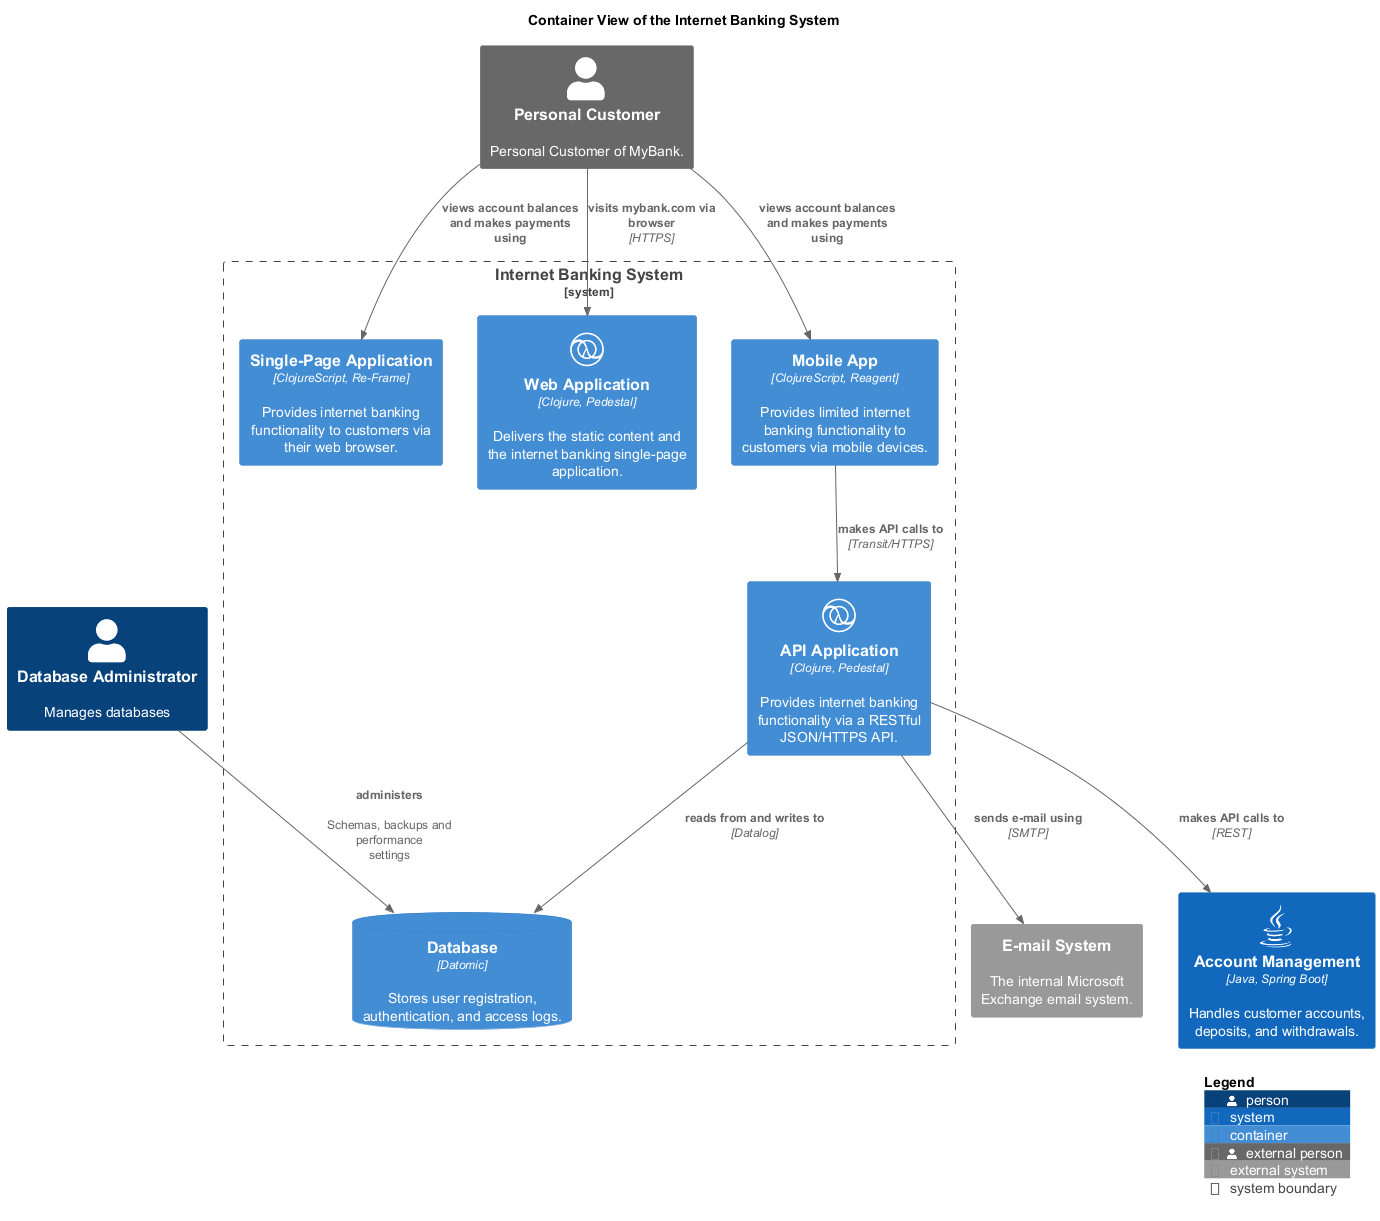
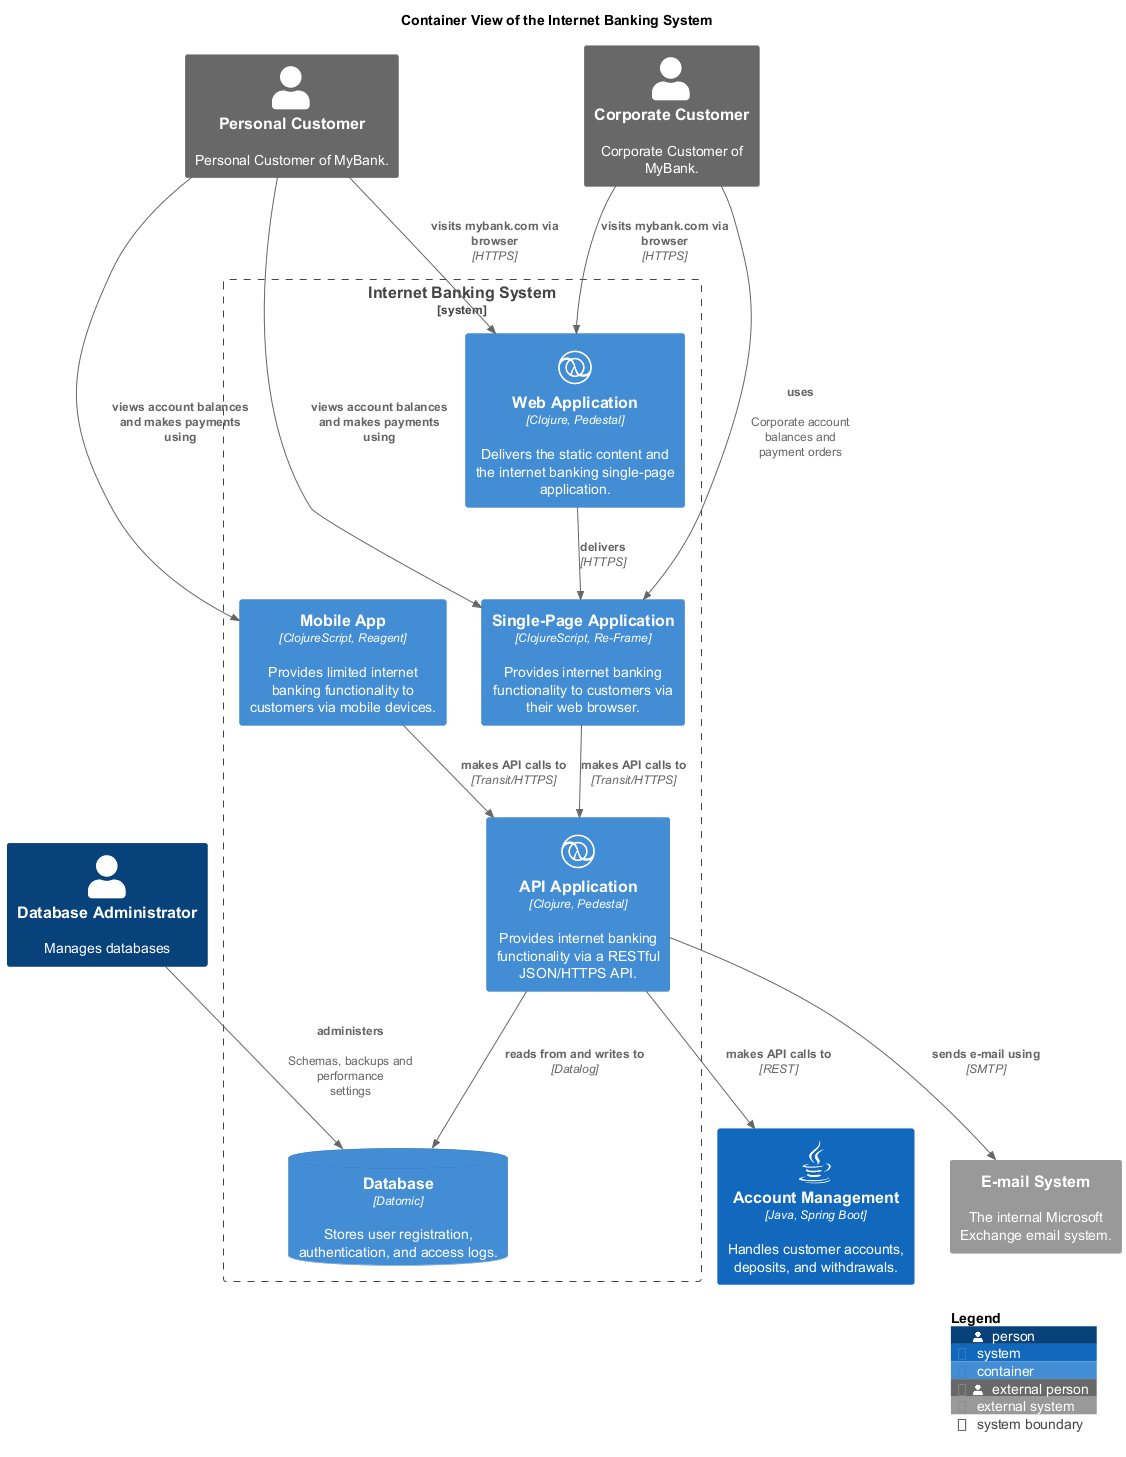
update model and generated docs

diff --git a/docs/mybank/model-view.md b/docs/mybank/model-view.md
@@ -263,6 +263,7 @@ Shows the complete model graph
 | [Single-Page Application](../mybank/digital-banking/internet-banking-system/single-page-app.md) | makes API calls to | [Accounts Summary Controller](../mybank/digital-banking/internet-banking-system/accounts-summary-controller.md) | Transit/HTTPS |  |
 | [Single-Page Application](../mybank/digital-banking/internet-banking-system/single-page-app.md) | makes API calls to | [Reset Password Controller](../mybank/digital-banking/internet-banking-system/reset-password-controller.md) | Transit/HTTPS |  |
 | [Single-Page Application](../mybank/digital-banking/internet-banking-system/single-page-app.md) | makes API calls to | [Sign In Controller](../mybank/digital-banking/internet-banking-system/sign-in-controller.md) | Transit/HTTPS |  |
+| [Single-Page Application](../mybank/digital-banking/internet-banking-system/single-page-app.md) | makes API calls to | [API Application](../mybank/digital-banking/internet-banking-system/api-application.md) | Transit/HTTPS |  |
 | [Mobile App](../mybank/digital-banking/internet-banking-system/mobile-app.md) | makes API calls to | [API Application](../mybank/digital-banking/internet-banking-system/api-application.md) | Transit/HTTPS |  |
 | [API Application](../mybank/digital-banking/internet-banking-system/api-application.md) | makes API calls to | [Account Management](../mybank/core-banking/account-management-system.md) | REST |  |
 | [Cybersecurity](../mybank/security/cybersecurity-system.md) | monitors | [API Gateway](../mybank/integration-middleware/api-gateway.md) |  | Network traffic and security events |
@@ -302,6 +303,7 @@ Shows the complete model graph
 | [Fraud specialist](../mybank/compliance/fraud-specialist.md) | uses | [Fraud Detection System](../mybank/compliance/fraud-detection-system.md) |  | generate fraud reports |
 | [DevOps Engineer](../mybank/project-management/devops-engineer.md) | uses | [Development Platform](../mybank/project-management/gitlab.md) |  | Source code, pipelines and deployments |
 | [Agility Master](../mybank/project-management/agility-master.md) | uses | [Project Management Tool](../mybank/project-management/jira.md) |  | Backlogs, sprints and burndown charts |
+| [Corporate Customer](../mybank/corporate-customer.md) | uses | [Single-Page Application](../mybank/digital-banking/internet-banking-system/single-page-app.md) |  | Corporate account balances and payment orders |
 | [Cloud Operations Specialist](../mybank/it-management/cloud-operations-specialist.md) | uses | [System Monitoring](../mybank/infrastructure-management/system-monitoring-system.md) |  | Health and performance metrics |
 | [Branch Systems](../mybank/customer-channels/branch-systems.md) | uses | [Account Management](../mybank/core-banking/account-management-system.md) |  | Customer account data and changes |
 | [Incident Manager](../mybank/project-management/incident-manager.md) | uses | [System Monitoring](../mybank/infrastructure-management/system-monitoring-system.md) |  | Alerts and system health |
@@ -320,6 +322,7 @@ Shows the complete model graph
 | [Personal Customer](../mybank/personal-customer.md) | views account balances and makes payments using | [Internet Banking System](../mybank/digital-banking/internet-banking-system/internet-banking-system.md) |  |  |
 | [Personal Customer](../mybank/personal-customer.md) | views account balances and makes payments using | [Mobile App](../mybank/digital-banking/internet-banking-system/mobile-app.md) |  |  |
 | [Personal Customer](../mybank/personal-customer.md) | visits mybank.com via browser | [Web Application](../mybank/digital-banking/internet-banking-system/web-app.md) | HTTPS |  |
+| [Corporate Customer](../mybank/corporate-customer.md) | visits mybank.com via browser | [Web Application](../mybank/digital-banking/internet-banking-system/web-app.md) | HTTPS |  |
 
 ## Deployment Nodes
 | Node | Description |

diff --git a/docs/mybank/digital-banking/container-view.md b/docs/mybank/digital-banking/container-view.md
@@ -14,6 +14,7 @@ Shows the systems and containers of the domain digital banking and their relatio
 ## Roles
 | Person/Role | Description |
 |---|---|
+| [Corporate Customer](../../mybank/corporate-customer.md)| Corporate Customer of MyBank. |
 | [Database Administrator](../../mybank/it-management/database-administrator.md)| Manages databases |
 | [Personal Customer](../../mybank/personal-customer.md)| Personal Customer of MyBank. |
 
@@ -38,14 +39,17 @@ Shows the systems and containers of the domain digital banking and their relatio
 | From | Name | To | Technology | Description |
 |---|---|---|---|---|
 | [Database Administrator](../../mybank/it-management/database-administrator.md) | administers | [Database](../../mybank/digital-banking/internet-banking-system/database.md) |  | Schemas, backups and performance settings |
+| [Single-Page Application](../../mybank/digital-banking/internet-banking-system/single-page-app.md) | makes API calls to | [API Application](../../mybank/digital-banking/internet-banking-system/api-application.md) | Transit/HTTPS |  |
 | [Mobile App](../../mybank/digital-banking/internet-banking-system/mobile-app.md) | makes API calls to | [API Application](../../mybank/digital-banking/internet-banking-system/api-application.md) | Transit/HTTPS |  |
 | [API Application](../../mybank/digital-banking/internet-banking-system/api-application.md) | makes API calls to | [Account Management](../../mybank/core-banking/account-management-system.md) | REST |  |
 | [API Application](../../mybank/digital-banking/internet-banking-system/api-application.md) | reads from and writes to | [Database](../../mybank/digital-banking/internet-banking-system/database.md) | Datalog |  |
 | [API Application](../../mybank/digital-banking/internet-banking-system/api-application.md) | sends e-mail using | [E-mail System](../../mybank/email-system.md) | SMTP |  |
 | [Personal Customer](../../mybank/personal-customer.md) | uses | [Digital Wallets](../../mybank/digital-banking/digital-wallets-system.md) |  |  |
+| [Corporate Customer](../../mybank/corporate-customer.md) | uses | [Single-Page Application](../../mybank/digital-banking/internet-banking-system/single-page-app.md) |  | Corporate account balances and payment orders |
 | [Personal Customer](../../mybank/personal-customer.md) | views account balances and makes payments using | [Single-Page Application](../../mybank/digital-banking/internet-banking-system/single-page-app.md) |  |  |
 | [Personal Customer](../../mybank/personal-customer.md) | views account balances and makes payments using | [Mobile App](../../mybank/digital-banking/internet-banking-system/mobile-app.md) |  |  |
 | [Personal Customer](../../mybank/personal-customer.md) | visits mybank.com via browser | [Web Application](../../mybank/digital-banking/internet-banking-system/web-app.md) | HTTPS |  |
+| [Corporate Customer](../../mybank/corporate-customer.md) | visits mybank.com via browser | [Web Application](../../mybank/digital-banking/internet-banking-system/web-app.md) | HTTPS |  |
 
 ## Navigation
 [List of views in namespace](./views-in-namespace.md)

diff --git a/docs/mybank/digital-banking/internet-banking-system/container-view.md b/docs/mybank/digital-banking/internet-banking-system/container-view.md
@@ -9,6 +9,7 @@ Shows the containers of the Internet Banking System and their relations.
 ## Roles
 | Person/Role | Description |
 |---|---|
+| [Corporate Customer](../../../mybank/corporate-customer.md)| Corporate Customer of MyBank. |
 | [Database Administrator](../../../mybank/it-management/database-administrator.md)| Manages databases |
 | [Personal Customer](../../../mybank/personal-customer.md)| Personal Customer of MyBank. |
 
@@ -32,13 +33,16 @@ Shows the containers of the Internet Banking System and their relations.
 | From | Name | To | Technology | Description |
 |---|---|---|---|---|
 | [Database Administrator](../../../mybank/it-management/database-administrator.md) | administers | [Database](../../../mybank/digital-banking/internet-banking-system/database.md) |  | Schemas, backups and performance settings |
+| [Single-Page Application](../../../mybank/digital-banking/internet-banking-system/single-page-app.md) | makes API calls to | [API Application](../../../mybank/digital-banking/internet-banking-system/api-application.md) | Transit/HTTPS |  |
 | [Mobile App](../../../mybank/digital-banking/internet-banking-system/mobile-app.md) | makes API calls to | [API Application](../../../mybank/digital-banking/internet-banking-system/api-application.md) | Transit/HTTPS |  |
 | [API Application](../../../mybank/digital-banking/internet-banking-system/api-application.md) | makes API calls to | [Account Management](../../../mybank/core-banking/account-management-system.md) | REST |  |
 | [API Application](../../../mybank/digital-banking/internet-banking-system/api-application.md) | reads from and writes to | [Database](../../../mybank/digital-banking/internet-banking-system/database.md) | Datalog |  |
 | [API Application](../../../mybank/digital-banking/internet-banking-system/api-application.md) | sends e-mail using | [E-mail System](../../../mybank/email-system.md) | SMTP |  |
+| [Corporate Customer](../../../mybank/corporate-customer.md) | uses | [Single-Page Application](../../../mybank/digital-banking/internet-banking-system/single-page-app.md) |  | Corporate account balances and payment orders |
 | [Personal Customer](../../../mybank/personal-customer.md) | views account balances and makes payments using | [Single-Page Application](../../../mybank/digital-banking/internet-banking-system/single-page-app.md) |  |  |
 | [Personal Customer](../../../mybank/personal-customer.md) | views account balances and makes payments using | [Mobile App](../../../mybank/digital-banking/internet-banking-system/mobile-app.md) |  |  |
 | [Personal Customer](../../../mybank/personal-customer.md) | visits mybank.com via browser | [Web Application](../../../mybank/digital-banking/internet-banking-system/web-app.md) | HTTPS |  |
+| [Corporate Customer](../../../mybank/corporate-customer.md) | visits mybank.com via browser | [Web Application](../../../mybank/digital-banking/internet-banking-system/web-app.md) | HTTPS |  |
 
 ## Navigation
 [List of views in namespace](./views-in-namespace.md)

diff --git a/docs/mybank/digital-banking/internet-banking-system/component-view.md b/docs/mybank/digital-banking/internet-banking-system/component-view.md
@@ -9,6 +9,7 @@ Shows the containers and components of the domain Internet Banking System and th
 ## Roles
 | Person/Role | Description |
 |---|---|
+| [Corporate Customer](../../../mybank/corporate-customer.md)| Corporate Customer of MyBank. |
 | [Database Administrator](../../../mybank/it-management/database-administrator.md)| Manages databases |
 | [Personal Customer](../../../mybank/personal-customer.md)| Personal Customer of MyBank. |
 
@@ -44,11 +45,13 @@ Shows the containers and components of the domain Internet Banking System and th
 | [Single-Page Application](../../../mybank/digital-banking/internet-banking-system/single-page-app.md) | makes API calls to | [Reset Password Controller](../../../mybank/digital-banking/internet-banking-system/reset-password-controller.md) | Transit/HTTPS |  |
 | [Single-Page Application](../../../mybank/digital-banking/internet-banking-system/single-page-app.md) | makes API calls to | [Sign In Controller](../../../mybank/digital-banking/internet-banking-system/sign-in-controller.md) | Transit/HTTPS |  |
 | [Accounts Summary Controller](../../../mybank/digital-banking/internet-banking-system/accounts-summary-controller.md) | retrieves account data from | [Core Banking Systems Facade](../../../mybank/digital-banking/internet-banking-system/core-banking-systems-facade.md) |  |  |
+| [Corporate Customer](../../../mybank/corporate-customer.md) | uses | [Single-Page Application](../../../mybank/digital-banking/internet-banking-system/single-page-app.md) |  | Corporate account balances and payment orders |
 | [Sign In Controller](../../../mybank/digital-banking/internet-banking-system/sign-in-controller.md) | uses | [Security Component](../../../mybank/digital-banking/internet-banking-system/security-component.md) |  |  |
 | [Reset Password Controller](../../../mybank/digital-banking/internet-banking-system/reset-password-controller.md) | uses for sending password reset emails | [E-mail Component](../../../mybank/digital-banking/internet-banking-system/email-component.md) |  |  |
 | [Personal Customer](../../../mybank/personal-customer.md) | views account balances and makes payments using | [Single-Page Application](../../../mybank/digital-banking/internet-banking-system/single-page-app.md) |  |  |
 | [Personal Customer](../../../mybank/personal-customer.md) | views account balances and makes payments using | [Mobile App](../../../mybank/digital-banking/internet-banking-system/mobile-app.md) |  |  |
 | [Personal Customer](../../../mybank/personal-customer.md) | visits mybank.com via browser | [Web Application](../../../mybank/digital-banking/internet-banking-system/web-app.md) | HTTPS |  |
+| [Corporate Customer](../../../mybank/corporate-customer.md) | visits mybank.com via browser | [Web Application](../../../mybank/digital-banking/internet-banking-system/web-app.md) | HTTPS |  |
 
 ## Navigation
 [List of views in namespace](./views-in-namespace.md)

diff --git a/docs/mybank/digital-banking/internet-banking-system/single-page-app.md b/docs/mybank/digital-banking/internet-banking-system/single-page-app.md
@@ -11,6 +11,7 @@ ClojureScript, Re-Frame
 ## Incoming Synchronous Requests 
 | From | Name | To | Technology | Description |
 |---|---|---|---|---|
+| [Corporate Customer](../../../mybank/corporate-customer.md) | uses | [Single-Page Application](../../../mybank/digital-banking/internet-banking-system/single-page-app.md) |  | Corporate account balances and payment orders |
 | [Personal Customer](../../../mybank/personal-customer.md) | views account balances and makes payments using | [Single-Page Application](../../../mybank/digital-banking/internet-banking-system/single-page-app.md) |  |  |
 ## Outgoing Synchronous Requests 
 | From | Name | To | Technology | Description |
@@ -18,6 +19,11 @@ ClojureScript, Re-Frame
 | [Single-Page Application](../../../mybank/digital-banking/internet-banking-system/single-page-app.md) | makes API calls to | [Accounts Summary Controller](../../../mybank/digital-banking/internet-banking-system/accounts-summary-controller.md) | Transit/HTTPS |  |
 | [Single-Page Application](../../../mybank/digital-banking/internet-banking-system/single-page-app.md) | makes API calls to | [Reset Password Controller](../../../mybank/digital-banking/internet-banking-system/reset-password-controller.md) | Transit/HTTPS |  |
 | [Single-Page Application](../../../mybank/digital-banking/internet-banking-system/single-page-app.md) | makes API calls to | [Sign In Controller](../../../mybank/digital-banking/internet-banking-system/sign-in-controller.md) | Transit/HTTPS |  |
+| [Single-Page Application](../../../mybank/digital-banking/internet-banking-system/single-page-app.md) | makes API calls to | [API Application](../../../mybank/digital-banking/internet-banking-system/api-application.md) | Transit/HTTPS |  |
+## Incoming Asynchronous Sends
+| From | Name | To | Technology | Description |
+|---|---|---|---|---|
+| [Web Application](../../../mybank/digital-banking/internet-banking-system/web-app.md) | delivers | [Single-Page Application](../../../mybank/digital-banking/internet-banking-system/single-page-app.md) | HTTPS |  |
 
 ## Container View
 ![Container View of the Internet Banking System](../../../mybank/digital-banking/internet-banking-system/container-view.png)

diff --git a/docs/mybank/digital-banking/internet-banking-system/web-app.md b/docs/mybank/digital-banking/internet-banking-system/web-app.md
@@ -12,6 +12,11 @@ Clojure, Pedestal
 | From | Name | To | Technology | Description |
 |---|---|---|---|---|
 | [Personal Customer](../../../mybank/personal-customer.md) | visits mybank.com via browser | [Web Application](../../../mybank/digital-banking/internet-banking-system/web-app.md) | HTTPS |  |
+| [Corporate Customer](../../../mybank/corporate-customer.md) | visits mybank.com via browser | [Web Application](../../../mybank/digital-banking/internet-banking-system/web-app.md) | HTTPS |  |
+## Outgoing Asynchronous Sends
+| From | Name | To | Technology | Description |
+|---|---|---|---|---|
+| [Web Application](../../../mybank/digital-banking/internet-banking-system/web-app.md) | delivers | [Single-Page Application](../../../mybank/digital-banking/internet-banking-system/single-page-app.md) | HTTPS |  |
 
 ## Container View
 ![Container View of the Internet Banking System](../../../mybank/digital-banking/internet-banking-system/container-view.png)

diff --git a/docs/mybank/corporate-customer.md b/docs/mybank/corporate-customer.md
@@ -15,7 +15,9 @@ Corporate Customer of MyBank.
 | From | Name | To | Technology | Description |
 |---|---|---|---|---|
 | [Corporate Customer](../mybank/corporate-customer.md) | uses | [Internet Banking System](../mybank/digital-banking/internet-banking-system/internet-banking-system.md) |  | Corporate account balances and payment orders |
+| [Corporate Customer](../mybank/corporate-customer.md) | uses | [Single-Page Application](../mybank/digital-banking/internet-banking-system/single-page-app.md) |  | Corporate account balances and payment orders |
 | [Corporate Customer](../mybank/corporate-customer.md) | uses | [API Gateway](../mybank/integration-middleware/api-gateway.md) | REST | Automated payment orders and account statements |
+| [Corporate Customer](../mybank/corporate-customer.md) | visits mybank.com via browser | [Web Application](../mybank/digital-banking/internet-banking-system/web-app.md) | HTTPS |  |
 
 
 ## Navigation

diff --git a/docs/mybank/digital-banking/internet-banking-system/api-application.md b/docs/mybank/digital-banking/internet-banking-system/api-application.md
@@ -20,6 +20,7 @@ Clojure, Pedestal
 ## Incoming Synchronous Requests 
 | From | Name | To | Technology | Description |
 |---|---|---|---|---|
+| [Single-Page Application](../../../mybank/digital-banking/internet-banking-system/single-page-app.md) | makes API calls to | [API Application](../../../mybank/digital-banking/internet-banking-system/api-application.md) | Transit/HTTPS |  |
 | [Mobile App](../../../mybank/digital-banking/internet-banking-system/mobile-app.md) | makes API calls to | [API Application](../../../mybank/digital-banking/internet-banking-system/api-application.md) | Transit/HTTPS |  |
 ## Outgoing Synchronous Requests 
 | From | Name | To | Technology | Description |
